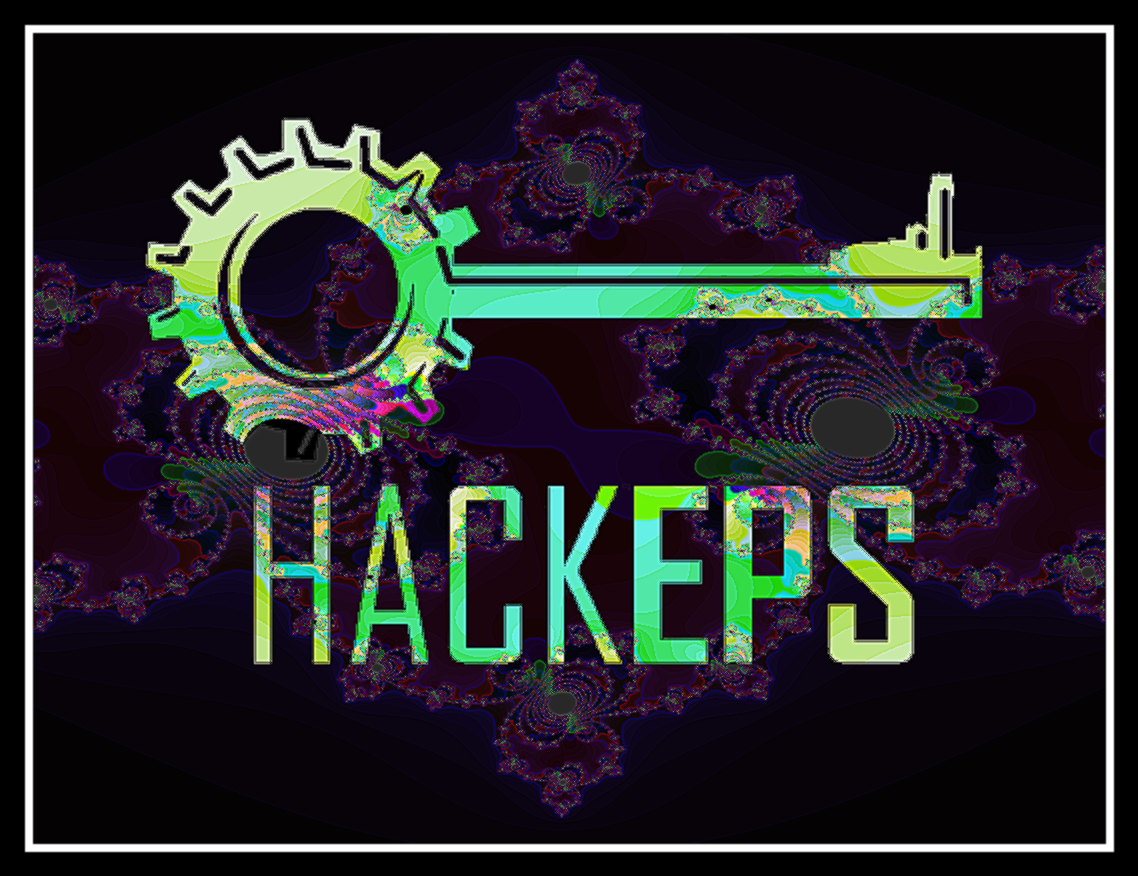
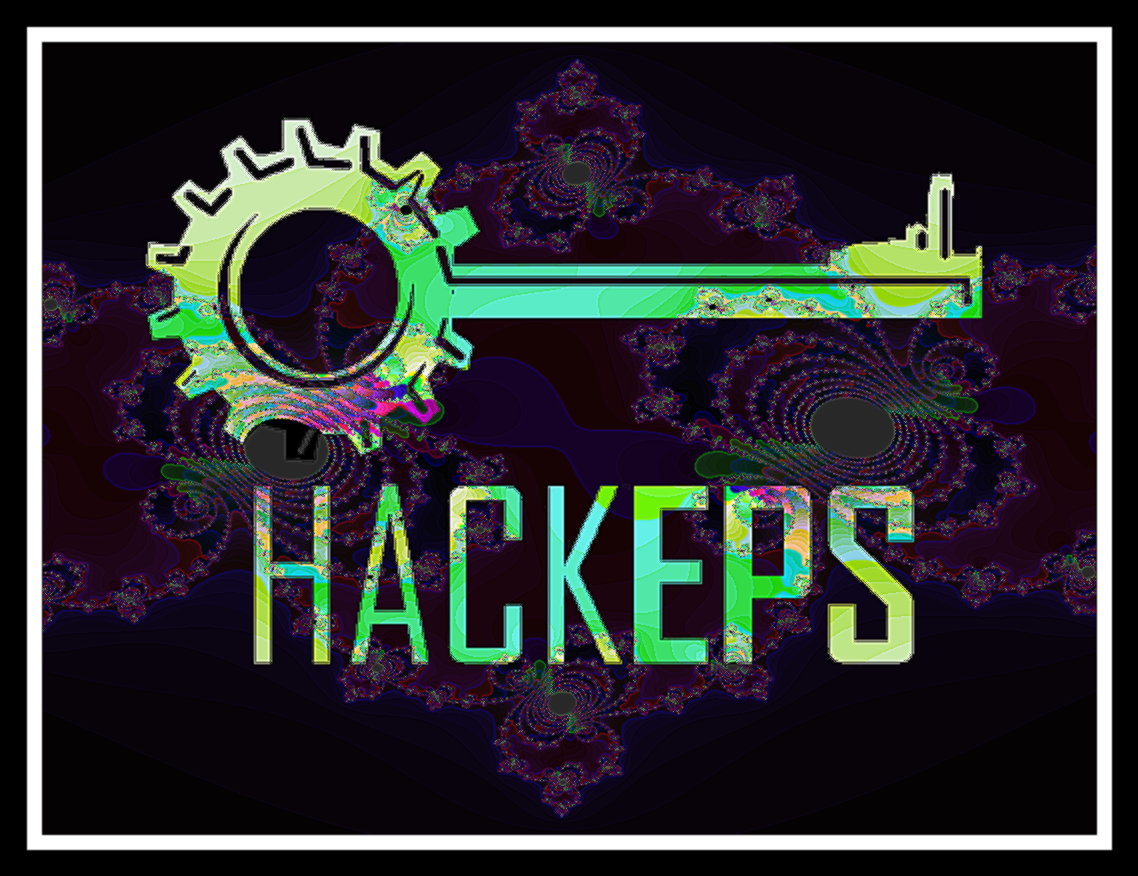
Last commit

Changed region(s): [[0.0, 0.0, 0.9842, 0.9863]]

diff --git a/main.py b/main.py
@@ -31,6 +31,6 @@ im1 = Image.open('logo_hack.png').resize((w * 2, h * 2)).filter(ImageFilter.EDGE
 im = Image.composite(ImageOps.invert(bitmap), ImageOps.invert(Image.composite(ImageOps.invert(bitmap), Image.new("RGB", (w * 2, h * 2), "black"), Image.new("L", im1.size, 40))), im1)
 
 draw = ImageDraw.Draw(im)
-draw.rectangle((0, 0, (w * 2, h * 2)), width=33, outline='black')
-draw.rectangle((0, 0, (w * 2, h * 2)), width=25, outline='white')
+draw.rectangle((0, 0, (w * 2, h * 2)), width=42, outline='black')
+draw.rectangle((0, 0, (w * 2, h * 2)), width=27, outline='white')
 ImageOps.invert(im).filter(ImageFilter.EDGE_ENHANCE_MORE).filter(ImageFilter.SMOOTH).save('result.png')
